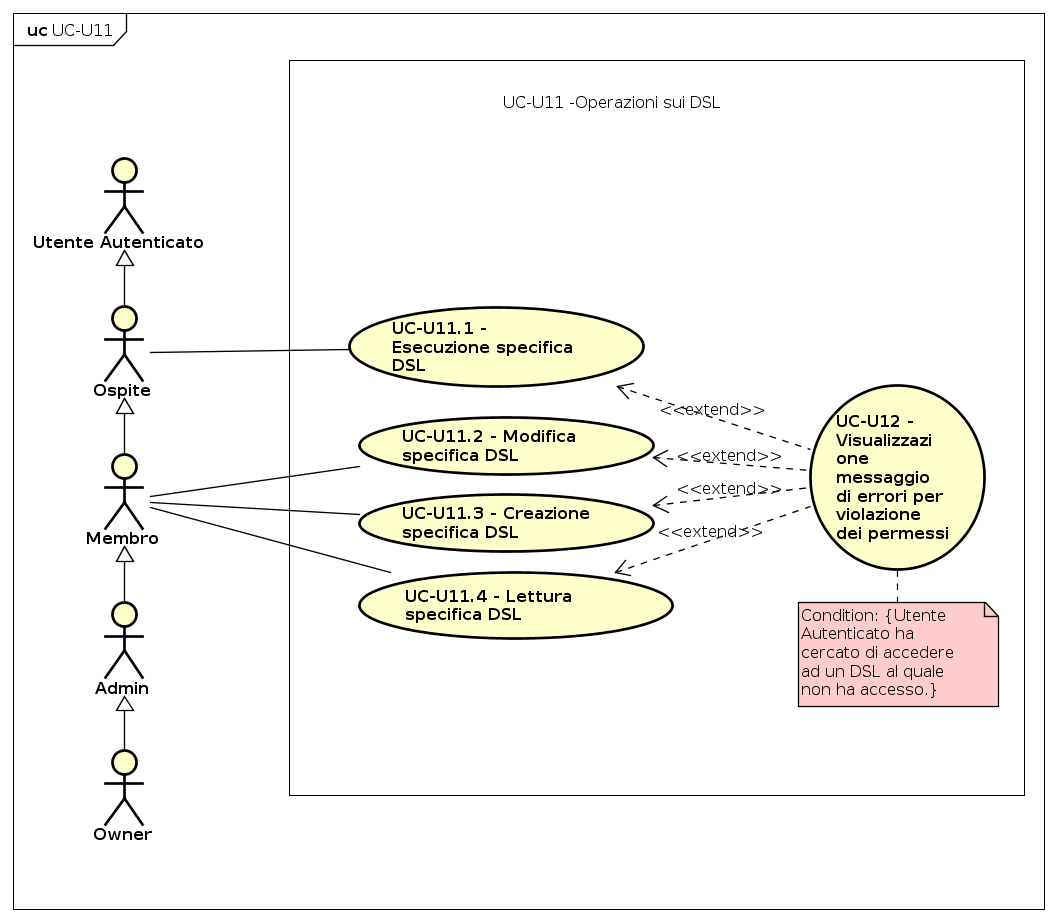
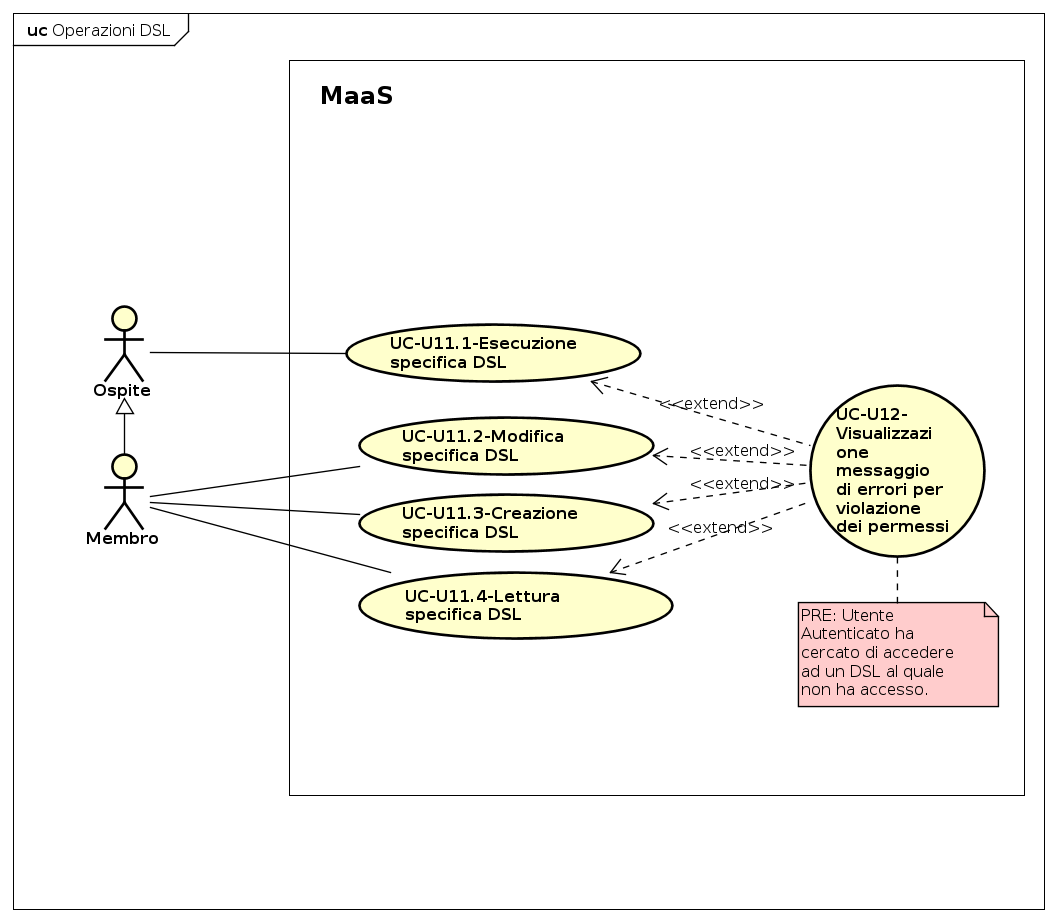
Changes based on RR comments

diff --git a/official/AnalisiDeiRequisiti/res/sections/utenteA.tex b/official/AnalisiDeiRequisiti/res/sections/utenteA.tex
@@ -23,7 +23,7 @@ Di seguito vengono elencati i \glossaryItem{casi d'uso} per l'utente autenticato
         \hline
         
         \textbf{Attori Primari} & Utente autenticato \\ 
-        \textbf{Scopo e Descrizione} & L’utente autenticato può: modificare il proprio profilo, effettuare delle operazioni nella pagina \glossaryItem{Dashboard}, effettuare delle operazioni di creazione/modifica/esecuzione del DSL (a seconda dei suoi permessi) e gestire altri utenti (quest'ultima funzionalità è riservata ad un ruolo superiore o uguale all'admin). \\ 
+        \textbf{Scopo e Descrizione} & L’utente autenticato può: modificare il proprio profilo, effettuare delle operazioni nella pagina \glossaryItem{Dashboard}, effettuare delle operazioni di creazione/modifica/esecuzione delle specifiche DSL (a seconda dei suoi permessi) e gestire altri utenti (quest'ultima funzionalità è riservata ad un ruolo superiore o uguale all'admin). \\ 
         
         \textbf{Precondizioni}  & L’applicazione è funzionante e pronta all'uso. L'utente autenticato ha visualizzato la
         pagina \glossaryItem{Dashboard}. \\ 
@@ -33,14 +33,14 @@ Di seguito vengono elencati i \glossaryItem{casi d'uso} per l'utente autenticato
         
 2. L'utente effettua delle operazioni nella pagina \glossaryItem{Dashboard}. (UC-U15)
 
-3. L'utente effettua delle operazioni di creazione/modifica/esecuzione del DSL (a seconda dei suoi permessi). (UC-U11)
+3. L'utente effettua delle operazioni di creazione/modifica/esecuzione delle specifiche DSL (a seconda dei suoi permessi). (UC-U11)
 
 4. L'utente gestisce altri utenti (quest'ultima funzionalità è riservata ad un ruolo superiore o uguale all'admin). (UC-U13)
 
 5. L'utente effettua il logout. (UC-U17) \\
         \textbf{Estensioni} & 1. L'utente autenticato visualizza un messaggio di errore nella procedura di modifica del profilo dovuto all'inserimento di un indirizzo email già presente (UC-U13.6.2)
         
-2. L'utente autenticato visualizza un messaggio di errore durante le operazioni effettuate sul DSL dovuto alla violazione dei permessi. (UC-U12)
+2. L'utente autenticato visualizza un messaggio di errore durante le operazioni effettuate sulle specifiche DSL dovuto alla violazione dei permessi. (UC-U12)
 
 3. L'utente autenticato visualizza un messaggio di errore durante le operazioni sugli utenti dovute alla violazione dei permessi. (UC-u14) \\
       \end{longtable}
@@ -351,7 +351,7 @@ Di seguito vengono elencati i \glossaryItem{casi d'uso} per l'utente autenticato
                     
                     \textbf{Precondizioni}  & L’applicazione è funzionante e pronta all'uso. Gli utenti possono accedere alla propria pagina \glossaryItem{Dashboard}.\\ 
                     
-                    \textbf{Postcondizioni} & L'utente visualizza il risultato della DSL \\ 
+                    \textbf{Postcondizioni} & L'utente visualizza il risultato della specifica DSL \\ 
                     \textbf{Scenario principale} & Nessuno\\
                     \textbf{Estensioni} & 1. L'utente visualizza un messaggio di errore in quanto non ha i permessi per operare sulla specifica DSL (UC-U12)  \\
                   \end{longtable}
@@ -515,7 +515,7 @@ Di seguito vengono elencati i \glossaryItem{casi d'uso} per l'utente autenticato
                     \textbf{Attori Primari} & Amministratore, \textit{Owner} \\ 
                     \textbf{Scopo e Descrizione} & L'amministratore o l'\textit{Owner} decidono di modificare il permesso di una specifica DSL\\ 
                     
-                    \textbf{Precondizioni}  & La DSL selezionata è già stata creata in precedenza. \\ 
+                    \textbf{Precondizioni}  & La specifica DSL selezionata è già stata creata in precedenza. \\ 
                     
                     \textbf{Postcondizioni} & La modifica sui permessi di una specifica DSL è apportata. \\ 
                   \end{longtable}
@@ -538,7 +538,7 @@ Di seguito vengono elencati i \glossaryItem{casi d'uso} per l'utente autenticato
                     \textbf{Attori Primari} & Amministratore, \textit{Owner} \\ 
                     \textbf{Scopo e Descrizione} & L'amministratore o l'\textit{Owner} decidono di cancellare un permesso su una specifica DSL\\ 
                     
-                    \textbf{Precondizioni}  & La DSL selezionata è già stata creata in precedenza. \\ 
+                    \textbf{Precondizioni}  & La specifica DSL selezionata è già stata creata in precedenza. \\ 
                     
                     \textbf{Postcondizioni} & La cancellazione del permesso sulla specifica DSL è apportata. \\ 
                   \end{longtable}
@@ -786,9 +786,9 @@ Di seguito vengono elencati i \glossaryItem{casi d'uso} per l'utente autenticato
         \hline
         
         \textbf{Attori Primari} & Utente autenticato \\ 
-        \textbf{Scopo e Descrizione} & L'utente autenticato sceglie di visualizzare un element dalla \glossaryItem{Dashboard} (che può essere una \glossaryItem{Cell}, un \glossaryItem{Document} o una \glossaryItem{Collection}). \\ 
+        \textbf{Scopo e Descrizione} & L'utente autenticato può visualizzare un element dalla \glossaryItem{Dashboard} (che può essere una \glossaryItem{Cell}, un \glossaryItem{Document} o una \glossaryItem{Collection}). \\ 
         
-        \textbf{Precondizioni}  & L'utente autenticato ha visualizzato un element della \glossaryItem{Dashboard}. \\ 
+        \textbf{Precondizioni}  & L'utente autenticato ha visualizzato la pagina \glossaryItem{Dashboard}. \\ 
         
         \textbf{Postcondizioni} & L'utente autenticato viene reindirizzato alla pagina di visione dell'element selezionato. \\ 
       \end{longtable}
